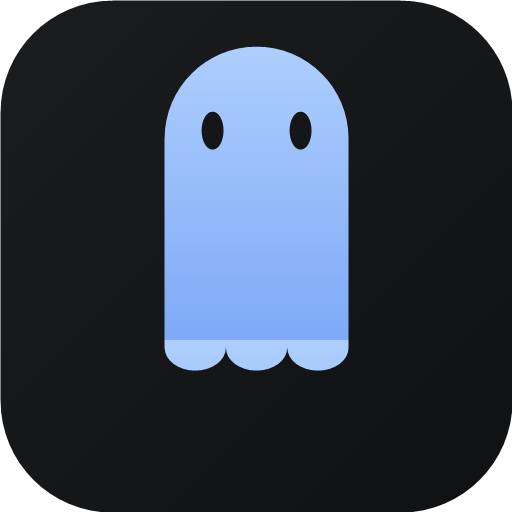
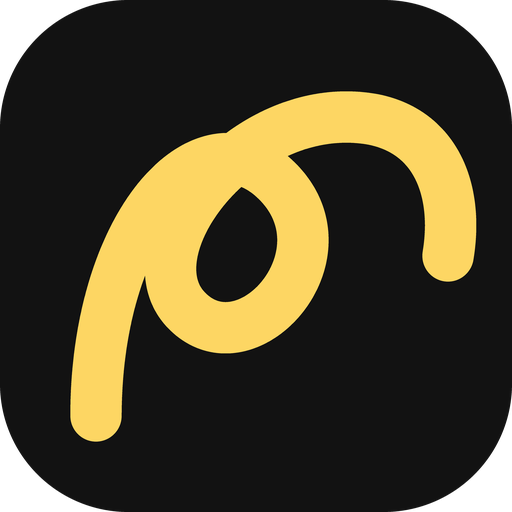
Web-parity pass 3: yellow-scribble brand, raw previews, wrap titles, sign-out
- Ghost -> web yellow scribble everywhere (IconBrand/IconBrandThin, app-icon
  regenerated from favicon.svg), topbar brand + drawer + empty-state
- Card previews back to raw body text (web shows markdown literally);
  preview Text stretches so it never clips mid-word; estimator 18->23 px/line
- Titles wrap like web pre-wrap (were ellipsis); pin slot collapses to 0
- Topbar sign-out icon (web logout -> native lock-now; no-op without vault)
- Releases: Win notes 14.96MB/calendar 12.21MB, Linux 19.81MB (all <=20MB)

diff --git a/apps/notes/src/lib.rs b/apps/notes/src/lib.rs
@@ -451,7 +451,7 @@ fn estimate_card_height_px(title: &str, preview: &str, clamp_lines: i32, card_w:
     } else {
         ((title_chars as f32) / title_cpl).ceil() as usize
     }
-    .clamp(0, 2);
+    .clamp(0, 3);
     // Count explicit lines plus soft-wrapped continuation lines from the real card width.
     let cpl = ((card_w - 36.0) / 7.0).floor().max(18.0);
     let mut body_lines: usize = 0;
@@ -469,8 +469,10 @@ fn estimate_card_height_px(title: &str, preview: &str, clamp_lines: i32, card_w:
         body_lines = 2;
     }
     // Web content height: pad 24 + title margin 4 + body margin 10 + actions 32 = 70
-    // plus title lines (23.1) and body lines (18). Verified: Meeting 147, Sprint 219.
-    (70.0 + title_lines as f32 * 23.0 + body_lines as f32 * 18.0).clamp(120.0, 1000.0)
+    // plus title lines (23.1) and body lines (23; Slint line pitch at 12px/1.5
+    // measures 21.6, +margin so the stretched Text never clips).
+    // Verified: Meeting 162, Sprint 234.
+    (70.0 + title_lines as f32 * 23.0 + body_lines as f32 * 23.0).clamp(120.0, 1000.0)
 }
 
 fn editor_body_height_px(body: &str, width_px: f32) -> f32 {
@@ -775,7 +777,6 @@ fn is_strict_checklist(body: &str) -> bool {
 fn note_to_data(s: &NoteSummary, prefs: &Prefs, card_w: f32, images: Vec<NoteImageData>) -> NoteData {
     let title = s.title.as_str();
     let preview = s.preview.as_str();
-    let plain_preview = ycore::model::strip_markdown(preview);
     let checklist_items = checklist_preview_items(preview, title, card_w);
     let is_checklist = !checklist_items.is_empty();
     let checklist_extra = if is_checklist { (checklist_items.len().saturating_sub(1) as f32) * 5.0 } else { 0.0 };
@@ -785,14 +786,16 @@ fn note_to_data(s: &NoteSummary, prefs: &Prefs, card_w: f32, images: Vec<NoteIma
         is_checklist,
         id: s.id.to_string().into(),
         title: title.into(),
-        preview: plain_preview.clone().into(),
+        // Web parity: card previews are the raw body text (markdown shown
+        // literally, e.g. "# Welcome", "**Ctrl+N**"; app.js keeps newlines).
+        preview: preview.into(),
         date_label: rel_time(s.updated_at).into(),
         pinned: s.pinned,
         favorite: s.favorite,
         word_count: 0,
         color_index: color_index(&s.color),
         image_count: s.image_count as i32,
-        card_height: (estimate_card_height_px(title, &plain_preview, prefs.clamp, card_w) + checklist_extra + if s.image_count > 0 { 146.0 } else { 0.0 }).min(1000.0),
+        card_height: (estimate_card_height_px(title, preview, prefs.clamp, card_w) + checklist_extra + if s.image_count > 0 { 146.0 } else { 0.0 }).min(1000.0),
         render_md: prefs.md_cards,
         preview_styled: styled_markdown(preview),
     }
@@ -1531,6 +1534,10 @@ fn create_note_from_composer(state: &mut AppState, ui: &MainWindow) -> Option<Uu
 }
 
 fn lock_vault(state: &Rc<RefCell<AppState>>, ui: &MainWindow) {
+    // No vault configured => nothing to lock: the app is local-only and
+    // already "signed in" (refresh_list derives vault_locked from
+    // vault_cfg, so forcing the lock screen here would be undone anyway).
+    if !state.borrow().vault_cfg.enabled { return; }
     flush_note(state, ui);
     {
         let mut s = state.borrow_mut();

diff --git a/docs/ARCHITECTURE.md b/docs/ARCHITECTURE.md
@@ -700,7 +700,29 @@ synthetic evidence.
   bytes and `calendar.exe` 12,211,200 bytes — all ≤ 20 MB.
   `cargo test --workspace` (ycore 15/15) and workspace clippy green.
   Visible instance on Mint `DISPLAY=:0` runs the release binary with
-  the test profile. **Known remaining gaps:** search-result `<mark>`
+  the test profile.
+* **Parity loops, third pass (2026-11-25, side-by-side at the user's real
+  1536x864 vs Brave kiosk on the static copy/stub)** — brand mark: the
+  Lucide ghost was replaced everywhere by the webapp's exact yellow
+  scribble (`IconBrand`, stroke 2.2; `IconBrandThin` 1.5 for the empty
+  state; `apps/shared-ui/icons.slint`) and `assets/app-icon.png` (+128)
+  regenerated from `favicon.svg` (#121212 bg, #FDD663 stroke 2.4).
+  Card previews are raw body text again — the web shows markdown
+  literally (`# Welcome`, `**Ctrl+N**`, `- Trim…`); `note_to_data` had
+  re-stripped them after `model.rs` deliberately kept them raw. Preview
+  `Text` now stretches in the layout instead of a fixed height (the fixed
+  height let the layout compress it and Slint elide the last line
+  mid-word, e.g. "Follow-…"); height estimator body line 18→23 to match
+  the measured 21.6 px line pitch. Titles wrap like web `pre-wrap`
+  (were single-line elide; pin slot collapses to 0 when unpinned so
+  titles get full width). Topbar sign-out icon added (web logout maps
+  to native lock-now; with no vault configured it is a no-op since there
+  is nothing to lock — the app is already local-only, and `refresh_list`
+  derives `vault_locked` from `vault_cfg`). All verified 1536x864 native-vs-web: brand,
+  composer, rail, Pinned/Others rows, raw previews, wrap titles,
+  tall Fleet cards.
+  `cargo test --workspace` (ycore 15/15) and clippy green.
+  **Known remaining gaps:** search-result `<mark>`
   highlighting (web `--mark-bg`) is not rendered — Slint plain `Text`
   has no per-span background and `StyledText` segments cannot be built
   publicly; filtering itself is exact. Long checklist items in the
